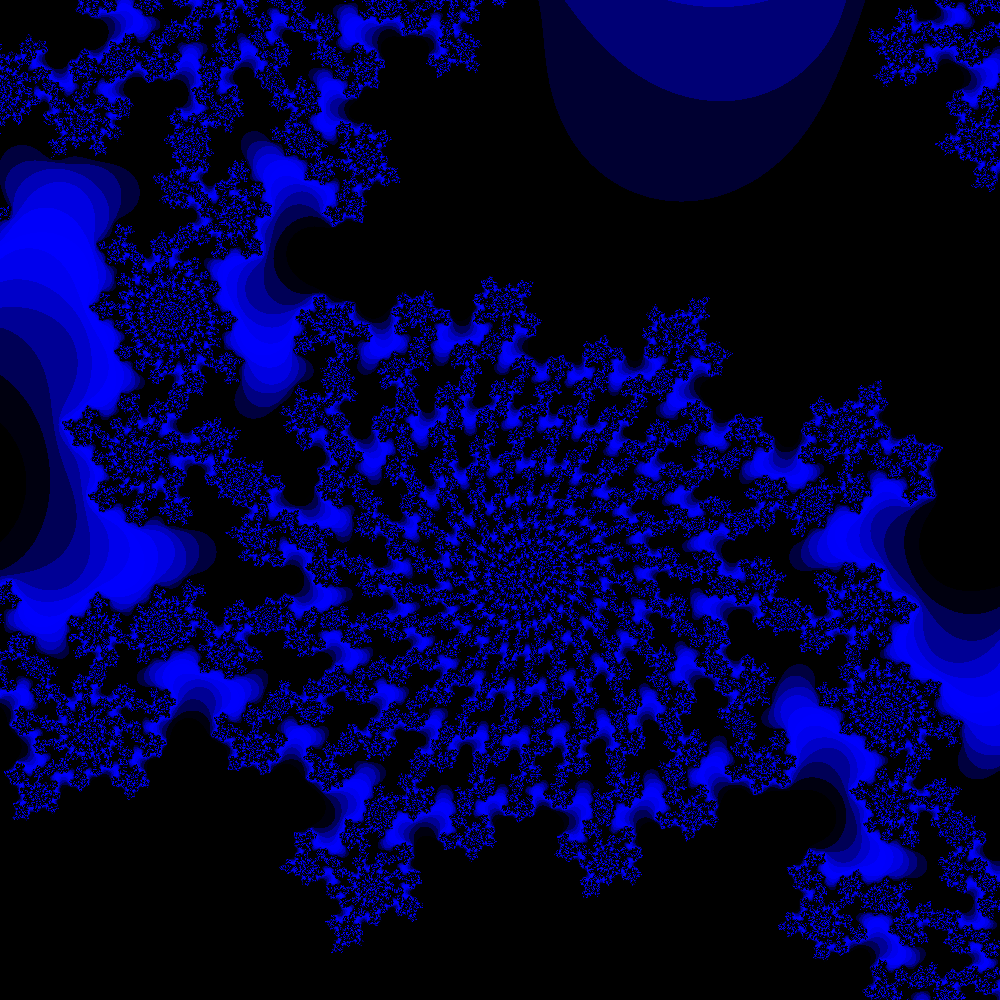
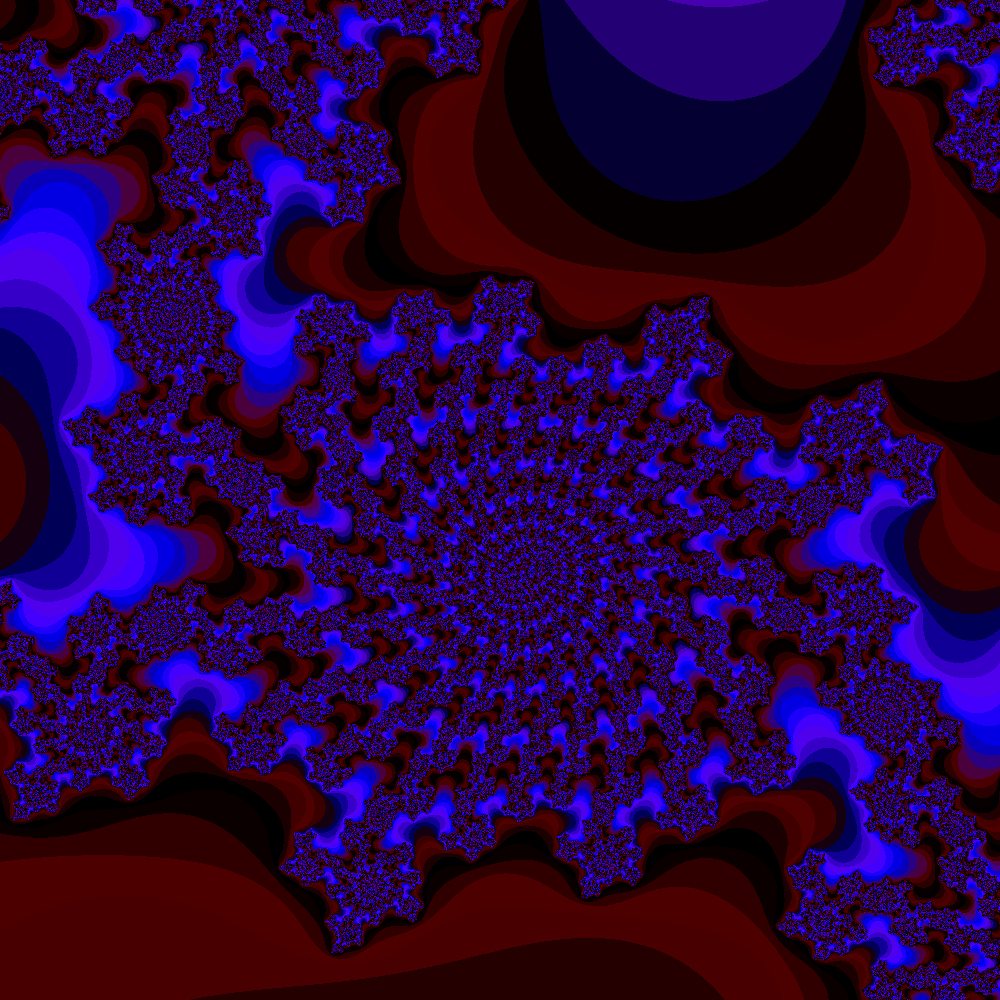
l

diff --git a/homework/fractals.py b/homework/fractals.py
@@ -1,6 +1,6 @@
 #Ian
 #OMH
-#10/3/19
+#11/4/19
 #This program draws three fractals. There is no randomness, so the same fractals should be drawn every time. 2 of the fractals are from the mandelbrot set, while the third is on that I created by drawing a hexagon, then drawing a smaller hexagon at the vertex of that hexagon, and continuing to draw hexagons for several iterations. I decided on the color schemes by trying many different things, and found that basic math, modulous, and trigonomoty make some very interesting color patterns.
 #Sources: Spencer,
 #required librarys: numpy. downloadable from pip (pip install numpy).
@@ -9,17 +9,15 @@ from PIL import Image, ImageDraw
 from numpy import interp
 import math
 import colorsys
-from progressbar import progressbar as bar
 
 #converts HSL color to rgb color
 def HSL(h,s,l):
-	import colorsys
 	color = [h, s, l]
 	color = colorsys.hls_to_rgb(color[0]/360, color[1]/100, color[2]/100)
 	color = [int(color[i]*255) for i in range(3)]
 	return tuple(color)
 
-#checks wether a given number is within the mandelbrot set
+#checks whether a given number is within the mandelbrot set
 def mandelbrot(c,maxIt, z =complex(0,0),i = 0):
 	if abs(z)>= 2 or i>=maxIt:
 		return i
@@ -28,7 +26,7 @@ def mandelbrot(c,maxIt, z =complex(0,0),i = 0):
 #Calculates what color a given pixel should be based on the value received from the mandelbrot function for that pixel
 def mandelpixel1(x,y,dimx,dimy,xmin,xmax,ymin,ymax,maxIt,name):
 	c = mandelbrot(complex(interp(x,[0,dimx],[xmin,xmax]),interp(y,[0,dimy],[ymin,ymax])),maxIt)
-	r = 0
+	r = 40*(1+math.sin(c))
 	g = 0
 	b = (math.sin((c/500)*dimx*3.00))*255
 	name.putpixel((x,y),(int(r),int(g),int(b)))
@@ -45,41 +43,53 @@ def mandelpixel2(x,y,dimx,dimy,xmin,xmax,ymin,ymax,maxIt,name):
 def hexagon(x,y,l,point, c,name,maxIt,maxIto,draw,count=0,):
 	if count <= maxIt:
 		for i in range(6):
+			#draws another hexagon at each vertex
 			hexagon(x,y,l/2,point-1, c,name,maxIt,maxIto,draw, count+1)
+			#changes the vertex by 1
 			point = (point+1)%6
+			#converts wich vertex it is to an angle
 			angle = interp(point,[0,6],[0,2*math.pi])
+			#sets a,b to x,y, then changes x,y, so that each line is drawn from the previous position to the new position
 			a,b = x,y
 			x,y = x+l*math.cos(angle),y+l*math.sin(angle)
+			#only draws the hexagon if it is the smallest in the max iterations
 			if count == maxIt:
 				draw.line((int(a),int(b), int(x),int(y)), fill=HSL(int((count/maxIto)*255),50,100))
 
 #makes a mandelbrot fractal with given values
-#REMOVE BAR!!!!!!!!!!!!!!!!!!!!!!!!!!!!!!!!!!!!!!!!!!!!
 def runMandel(dimx,dimy,xmin,xmax,ymin,ymax,maxIt,name,type):
+	#stores the original name so that it can save the file, than creates an image name
 	savename = name
 	name = Image.new("RGB",(dimx,dimy))
+	#sets the recursion limit above maxIt so that the maximum recursion depth will never be reached
 	sys.setrecursionlimit(maxIt+10)
-	for i in bar(range(dimx)):
+	#runs through every pixel, calulates the the color, and sets each pixel to that color
+	for i in (range(dimx)):
 		for j in range(dimy):
 			if type == 1:
 				mandelpixel1(i,j,dimx,dimy,xmin,xmax,ymin,ymax,maxIt,name)
 			else:
 				mandelpixel2(i,j,dimx,dimy,xmin,xmax,ymin,ymax,maxIt,name)
+	#saves the picture using the provided name
 	name.save(savename+".png", "PNG")
 
-#makes a hexagon fractal with given values
+#makes a hexagon fractal with given valuesx
 def runHex(x,y,l,point,c,dimx,dimy,maxIt,name):
+	#stores the original name so that it can save the file, than creates an image name
 	savename = name
 	maxIto = maxIt
 	name = Image.new("RGB",(dimx,dimy))
 	draw = ImageDraw.Draw(name)
+	#the total number of recursions is 6^max iterations, so the recurion limit needs to be higher
 	sys.setrecursionlimit(6**maxIt+4)
+	#runs through th hexagon program, draws the smallest hexagon, then repeats with the second smallest, third smallest, etc
 	while(maxIt>0):
 		hexagon(x,y,l,point,c,name,maxIt,maxIto,draw)
 		maxIt -= 1
+	#saves the picture using the provided name
 	name.save(savename+".png","PNG")
 
 #runs all of the functions with the values I chose to look good
-# runMandel(1000, 1000,-.3158267837126886,-.315826561940633446,.6533639614499106,.6533641832219648,1000,"bluemandel", 1)
+runMandel(1000, 1000,-.3158267837126886,-.315826561940633446,.6533639614499106,.6533641832219648,1000,"bluemandel", 1)
 runMandel(1000, 1000,-.04268973253251546,-.042678548183545745, -.9899397662400176, -.9899285829010478,2000,"purplemandel", 2)
-# runHex(550,400,400,5,(255,0,0),1500,1500,7, "hexpicture")
+runHex(550,400,400,5,(255,0,0),1500,1500,7, "hexpicture")
